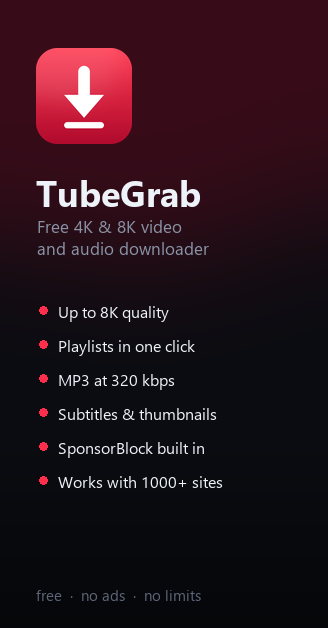
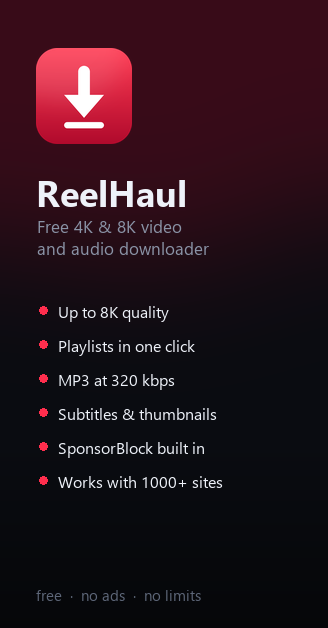
Rebrand to ReelHaul, taskbar AppUserModelID fix, release-driven publishing (v1.1.0)

Changed region(s): [[0.0915, 0.2723, 0.6098, 0.3328]]

diff --git a/app.py b/app.py
@@ -1,4 +1,4 @@
-"""TubeGrab — a free 4K/8K video and audio downloader for Windows.
+"""ReelHaul — a free 4K/8K video and audio downloader for Windows.
 
 A friendly desktop front-end for yt-dlp. No accounts, no ads, no limits.
 """
@@ -24,12 +24,24 @@ from tkinter import filedialog, messagebox
 
 import engine
 
-APP_NAME = "TubeGrab"
+APP_NAME = "ReelHaul"
 BASE_DIR = Path(__file__).resolve().parent
 ASSETS = BASE_DIR / "assets"
-DATA_DIR = Path(os.environ.get("APPDATA") or Path.home()) / "TubeGrab"
+DATA_DIR = Path(os.environ.get("APPDATA") or Path.home()) / "ReelHaul"
 DATA_DIR.mkdir(parents=True, exist_ok=True)
 SETTINGS_FILE = DATA_DIR / "settings.json"
+
+if os.name == "nt":
+    try:
+        import ctypes
+
+        # Claim a Windows AppUserModelID so the taskbar shows the app's own
+        # icon instead of the Python logo when running from source.
+        ctypes.windll.shell32.SetCurrentProcessExplicitAppUserModelID(
+            f"Justalilbro22.{APP_NAME}"
+        )
+    except Exception:  # noqa: BLE001
+        pass
 
 # ---------------------------------------------------------------- palette ---
 BG = "#0A0C11"
@@ -62,7 +74,7 @@ HEIGHT_LABELS = {
 }
 
 DEFAULT_SETTINGS = {
-    "outdir": str(Path.home() / "Downloads" / "TubeGrab"),
+    "outdir": str(Path.home() / "Downloads" / "ReelHaul"),
     "container": "MP4",
     "cookies": "Off",
     "subs": False,
@@ -75,11 +87,11 @@ DEFAULT_SETTINGS = {
     "geometry": "",
 }
 
-log = logging.getLogger("tubegrab")
+log = logging.getLogger("reelhaul")
 
 
 def setup_logging() -> None:
-    handler = logging.FileHandler(DATA_DIR / "tubegrab.log", encoding="utf-8")
+    handler = logging.FileHandler(DATA_DIR / "reelhaul.log", encoding="utf-8")
     handler.setFormatter(logging.Formatter("%(asctime)s %(levelname)s %(message)s"))
     log.addHandler(handler)
     log.setLevel(logging.INFO)
@@ -157,7 +169,7 @@ class Job:
     last_ui: float = 0.0
 
 
-class TubeGrab(ctk.CTk):
+class ReelHaul(ctk.CTk):
     def __init__(self) -> None:
         ctk.set_appearance_mode("dark")
         super().__init__(fg_color=BG)
@@ -730,7 +742,7 @@ class TubeGrab(ctk.CTk):
 
     def _current_options(self) -> engine.DownloadOptions:
         outdir = self.folder_var.get().strip().strip('"') or str(
-            Path.home() / "Downloads" / "TubeGrab"
+            Path.home() / "Downloads" / "ReelHaul"
         )
         self.folder_var.set(outdir)
         options = engine.DownloadOptions(
@@ -1303,7 +1315,7 @@ class TubeGrab(ctk.CTk):
         self._set_status(f"yt-dlp {new_version} installed.")
         if messagebox.askyesno(
             "Engine updated",
-            f"yt-dlp {new_version} is installed.\nRestart TubeGrab now to use it?",
+            f"yt-dlp {new_version} is installed.\nRestart ReelHaul now to use it?",
             parent=self,
         ):
             self._restart()
@@ -1322,7 +1334,7 @@ class TubeGrab(ctk.CTk):
         active = [j for j in self.jobs if j.status in ("Queued", "Downloading")]
         if active:
             if not messagebox.askyesno(
-                "Quit TubeGrab?",
+                "Quit ReelHaul?",
                 f"{len(active)} download(s) are still running. Quit anyway?",
                 parent=self,
             ):
@@ -1391,14 +1403,14 @@ def main() -> int:
     if "--selftest" in sys.argv:
         return run_selftest()
     try:
-        TubeGrab().run()
+        ReelHaul().run()
         return 0
     except Exception:  # noqa: BLE001 - last resort for a windowless launcher
-        log.exception("TubeGrab crashed")
+        log.exception("ReelHaul crashed")
         try:
             messagebox.showerror(
-                "TubeGrab crashed",
-                "Something went wrong while starting TubeGrab.\n\n"
+                "ReelHaul crashed",
+                "Something went wrong while starting ReelHaul.\n\n"
                 + traceback.format_exc(limit=4),
             )
         except Exception:  # noqa: BLE001

diff --git a/engine.py b/engine.py
@@ -1,7 +1,7 @@
-"""TubeGrab download engine.
+"""ReelHaul download engine.
 
 Drives the official standalone yt-dlp.exe binary from a subprocess. Using the
-official binary means a packaged TubeGrab can update itself with one command
+official binary means a packaged ReelHaul can update itself with one command
 (``yt-dlp --update``) and needs no Python on the target machine.
 """
 from __future__ import annotations
@@ -60,7 +60,7 @@ class DownloadCancelled(Exception):
 # ------------------------------------------------------------- environment --
 
 def packaged_dirs() -> list[str]:
-    """Folders that may hold bundled tools when TubeGrab runs as a frozen exe."""
+    """Folders that may hold bundled tools when ReelHaul runs as a frozen exe."""
     candidates: list[str] = []
     if getattr(sys, "frozen", False):
         meipass = getattr(sys, "_MEIPASS", "")
@@ -69,7 +69,7 @@ def packaged_dirs() -> list[str]:
         exe_dir = os.path.dirname(sys.executable)
         if exe_dir:
             candidates.append(exe_dir)
-            # A plain PyInstaller build (dist\TubeGrab) keeps the bundled tools
+            # A plain PyInstaller build (dist\ReelHaul) keeps the bundled tools
             # in the repo root next to dist\, so search two levels up too.
             parent = os.path.dirname(exe_dir)
             if parent:
@@ -125,7 +125,7 @@ def find_ffmpeg() -> Optional[str]:
 def detect_js_runtimes() -> dict:
     """Pick a JavaScript runtime for YouTube's challenge solving.
 
-    A runtime bundled with TubeGrab (deno.exe next to the app) is preferred so
+    A runtime bundled with ReelHaul (deno.exe next to the app) is preferred so
     4K/8K formats work on machines without any dev tools installed.
     """
     for folder in packaged_dirs():
@@ -328,7 +328,7 @@ def analyze(url: str, cookies_browser: str = "") -> dict:
     exe = find_ytdlp()
     if not exe:
         raise EngineError(
-            "The download engine (yt-dlp) is missing. Reinstall TubeGrab.", ""
+            "The download engine (yt-dlp) is missing. Reinstall ReelHaul.", ""
         )
 
     args = [
@@ -410,7 +410,7 @@ def fetch_thumbnail(url: str, size: tuple[int, int] = (356, 200)) -> Optional[Im
     import urllib.request
 
     try:
-        req = urllib.request.Request(url, headers={"User-Agent": "Mozilla/5.0 TubeGrab"})
+        req = urllib.request.Request(url, headers={"User-Agent": "Mozilla/5.0 ReelHaul"})
         with urllib.request.urlopen(req, timeout=10) as response:
             data = response.read()
         img = Image.open(io.BytesIO(data)).convert("RGB")
@@ -492,12 +492,12 @@ def download(
     exe = find_ytdlp()
     if not exe:
         raise EngineError(
-            "The download engine (yt-dlp) is missing. Reinstall TubeGrab.", ""
+            "The download engine (yt-dlp) is missing. Reinstall ReelHaul.", ""
         )
 
     outdir = os.path.abspath(options.outdir)
     os.makedirs(outdir, exist_ok=True)
-    tmpdir = tempfile.mkdtemp(prefix="tubegrab-")
+    tmpdir = tempfile.mkdtemp(prefix="reelhaul-")
     ffmpeg = options.ffmpeg_location or find_ffmpeg() or ""
     before = _snapshot(outdir)
 

diff --git a/make_installer_art.py b/make_installer_art.py
@@ -66,7 +66,7 @@ def build_side() -> Image.Image:
     img.paste(logo, (36, 48), logo)
     draw = ImageDraw.Draw(img)
 
-    draw.text((36, 168), "TubeGrab", font=font(FONT_BOLD, 36), fill=TEXT)
+    draw.text((36, 168), "ReelHaul", font=font(FONT_BOLD, 36), fill=TEXT)
     draw.text((37, 214), "Free 4K & 8K video", font=font(FONT_REG, 17), fill=MUTED)
     draw.text((37, 236), "and audio downloader", font=font(FONT_REG, 17), fill=MUTED)
 

diff --git a/make_assets.py b/make_assets.py
@@ -1,4 +1,4 @@
-"""Generate TubeGrab's icon and logo (run once, or after changing the design)."""
+"""Generate ReelHaul's icon and logo (run once, or after changing the design)."""
 from pathlib import Path
 
 from PIL import Image, ImageDraw, ImageFilter

diff --git a/README.md b/README.md
@@ -1,21 +1,21 @@
-# TubeGrab
+# ReelHaul
 
 A free, ad-free desktop downloader for Windows. Paste a YouTube link (or any of
 1000+ other sites yt-dlp supports) and grab it in up to **8K**, with playlists,
 MP3, subtitles, thumbnails and more. No accounts, no limits, no paywalls.
 
-![TubeGrab](assets/logo.png)
+![ReelHaul](assets/logo.png)
 
 ## Quick start
 
-- **Installed with the Setup file?** Just launch **TubeGrab** from your Start
+- **Installed with the Setup file?** Just launch **ReelHaul** from your Start
   menu or desktop. Everything (the downloader engine, ffmpeg for 4K merging,
   and a JavaScript runtime so 4K/8K formats appear) is installed with it —
   no Python needed.
-- **Running from this folder?** Double-click `TubeGrab.bat`. On a fresh machine,
+- **Running from this folder?** Double-click `ReelHaul.bat`. On a fresh machine,
   run `setup.bat` once — it creates a private Python environment and installs
   everything.
-- **Debugging:** `TubeGrab (console).bat` shows errors in a console window.
+- **Debugging:** `ReelHaul (console).bat` shows errors in a console window.
 
 ### How to use
 
@@ -48,7 +48,7 @@ MP3, subtitles, thumbnails and more. No accounts, no limits, no paywalls.
   YouTube at 1080p because H.264 doesn't exist above that there.
 - Some 4K videos are **HDR**; on an SDR monitor they can look washed out in weak
   players. Pick a lower height if that bothers you.
-- For YouTube's full format list, TubeGrab uses the official `yt-dlp-ejs`
+- For YouTube's full format list, ReelHaul uses the official `yt-dlp-ejs`
   challenge solver with whatever JS runtime it finds (Deno, Node, Bun or
   QuickJS). If formats ever look missing, update the engine (see below).
 
@@ -56,47 +56,47 @@ MP3, subtitles, thumbnails and more. No accounts, no limits, no paywalls.
 
 YouTube changes things constantly. If downloads start failing:
 
-1. Press **Update engine** (top right). In an installed TubeGrab this runs the
+1. Press **Update engine** (top right). In an installed ReelHaul this runs the
    official engine's self-updater (`yt-dlp --update`) and offers to restart the
    app. When running from source it runs `pip install -U yt-dlp` instead.
 2. Still failing? Close and reopen the app; the new engine loads at startup.
 3. ffmpeg is required for merging 4K video/audio, MP3 conversion, thumbnails and
    subtitle embedding. The Setup file installs a bundled copy; when running from
-   source, TubeGrab finds ffmpeg on PATH automatically.
+   source, ReelHaul finds ffmpeg on PATH automatically.
 
 Settings (save folder, toggles, window position) live in
-`%APPDATA%\TubeGrab\settings.json`; logs go to `%APPDATA%\TubeGrab\tubegrab.log`.
+`%APPDATA%\ReelHaul\settings.json`; logs go to `%APPDATA%\ReelHaul\reelhaul.log`.
 
 ## Files
 
 ```
-TubeGrab/
+ReelHaul/
 ├─ app.py                      the GUI
 ├─ engine.py                   yt-dlp subprocess wrapper (queue, progress, cancel)
 ├─ make_assets.py              regenerates the icon/logo
 ├─ make_installer_art.py       regenerates the installer wizard art
 ├─ requirements.txt            dependencies (source builds only)
 ├─ setup.bat                   one-time install for running from source
-├─ TubeGrab.bat                launcher when running from source
-├─ TubeGrab (console).bat      launcher with a console for debugging
-├─ TubeGrab.spec               PyInstaller spec for the standalone app
+├─ ReelHaul.bat                launcher when running from source
+├─ ReelHaul (console).bat      launcher with a console for debugging
+├─ ReelHaul.spec               PyInstaller spec for the standalone app
 ├─ installer.iss               Inno Setup script for the dark-branded installer
 ├─ license.txt                 MIT-style license + fair-use note + credits
 ├─ build.bat                   one command: exe + installer -> release\
 ├─ bundled/                    yt-dlp.exe, ffmpeg, deno.exe shipped with Setup
-├─ dist/TubeGrab/              packaged app (build output)
-└─ release/                    TubeGrab-Setup-*.exe (build output)
+├─ dist/ReelHaul/              packaged app (build output)
+└─ release/                    ReelHaul-Setup-*.exe (build output)
 ```
 
 ## Building the installer yourself
 
 1. Install Python 3.10+ and run `setup.bat` once.
 2. `winget install -e --id JRSoftware.InnoSetup`
-3. Run `build.bat` — it produces `dist\TubeGrab\TubeGrab.exe` (the standalone
-   app) and `release\TubeGrab-Setup-<version>.exe` (the installer, with ffmpeg,
+3. Run `build.bat` — it produces `dist\ReelHaul\ReelHaul.exe` (the standalone
+   app) and `release\ReelHaul-Setup-<version>.exe` (the installer, with ffmpeg,
    yt-dlp and a JS runtime bundled, so it works on any Windows 10/11 PC).
-4. Sanity check a build with `TubeGrab.exe --selftest` (exit code 0 and a JSON
-   report in `%APPDATA%\TubeGrab\selftest.json`).
+4. Sanity check a build with `ReelHaul.exe --selftest` (exit code 0 and a JSON
+   report in `%APPDATA%\ReelHaul\selftest.json`).
 
 Note: the Setup file is not code-signed, so Windows SmartScreen may ask you to
 confirm it on first run ("More info" → "Run anyway"). See *Code signing* below.
@@ -118,13 +118,13 @@ program for open-source projects — the published policy is in
    publishes, just unsigned.
 
 For local builds you can sign manually instead: put a certificate at
-`signing\cert.pfx` and run `setx TUBEGRAB_CERT_PASSWORD "your password"` before
+`signing\cert.pfx` and run `setx REELHAUL_CERT_PASSWORD "your password"` before
 `build.bat` (`signing\sign.ps1` handles SHA-256 digest + RFC 3161 timestamp and
 verifies the result). No certificate? The build simply stays unsigned.
 
 ## Fair use
 
-TubeGrab is a front-end for the open-source project
+ReelHaul is a front-end for the open-source project
 [yt-dlp](https://github.com/yt-dlp/yt-dlp). Download only videos you own or have
 permission to save, and respect the terms of service of whatever site you use it
 with.

diff --git a/CODE_SIGNING_POLICY.md b/CODE_SIGNING_POLICY.md
@@ -1,6 +1,6 @@
-# TubeGrab code signing policy
+# ReelHaul code signing policy
 
-Every official binary release of TubeGrab is code-signed through the
+Every official binary release of ReelHaul is code-signed through the
 [SignPath Foundation](https://signpath.org) free code-signing program for
 open-source projects. This page is the project's published signing policy, as
 required by the Foundation.
@@ -9,8 +9,8 @@ required by the Foundation.
 
 | File | What it is |
 | --- | --- |
-| `TubeGrab-Setup-&lt;version&gt;.exe` | The installer (Inno Setup), signed |
-| `TubeGrab.exe` | The application executable, signed (also inside the installer) |
+| `ReelHaul-Setup-&lt;version&gt;.exe` | The installer (Inno Setup), signed |
+| `ReelHaul.exe` | The application executable, signed (also inside the installer) |
 
 Upstream third-party binaries (yt-dlp.exe, ffmpeg.exe, ffprobe.exe, deno.exe)
 are **not** signed with the project certificate. They are downloaded at build
@@ -27,7 +27,7 @@ unmodified inside the installer.
    - `yt-dlp.exe` — https://github.com/yt-dlp/yt-dlp/releases
    - `deno.exe` — https://github.com/denoland/deno/releases
    - `ffmpeg.exe` / `ffprobe.exe` — https://github.com/BtbN/FFmpeg-Builds/releases
-3. The build runs a self-test (`TubeGrab.exe --selftest`) which must pass
+3. The build runs a self-test (`ReelHaul.exe --selftest`) which must pass
    before any artifact is submitted for signing.
 4. A signing request is submitted to SignPath.io from the same workflow run
    using the official GitHub Actions integration; SignPath verifies that the
@@ -43,11 +43,13 @@ unmodified inside the installer.
   conditions in the SignPath project configuration).
 - All project files are under an OSI-approved MIT license (see `LICENSE`);
   the project contains no proprietary code and is not dual-licensed.
-- Every release on GitHub states whether it is signed; unsigned artifacts are
-  only published as workflow artifacts (never as releases).
+- Every release on GitHub states whether it is signed. Until the SignPath
+  Foundation project is approved, releases carry the unsigned build produced by
+  this same workflow; once approved, **only** signed installers are published
+  as releases.
 
 ## Verifying a download
 
-After installing, right-click `TubeGrab.exe` → *Properties* → *Digital
-Signatures* and confirm the signer is the **SignPath Foundation: TubeGrab**
+After installing, right-click `ReelHaul.exe` → *Properties* → *Digital
+Signatures* and confirm the signer is the **SignPath Foundation: ReelHaul**
 certificate.
